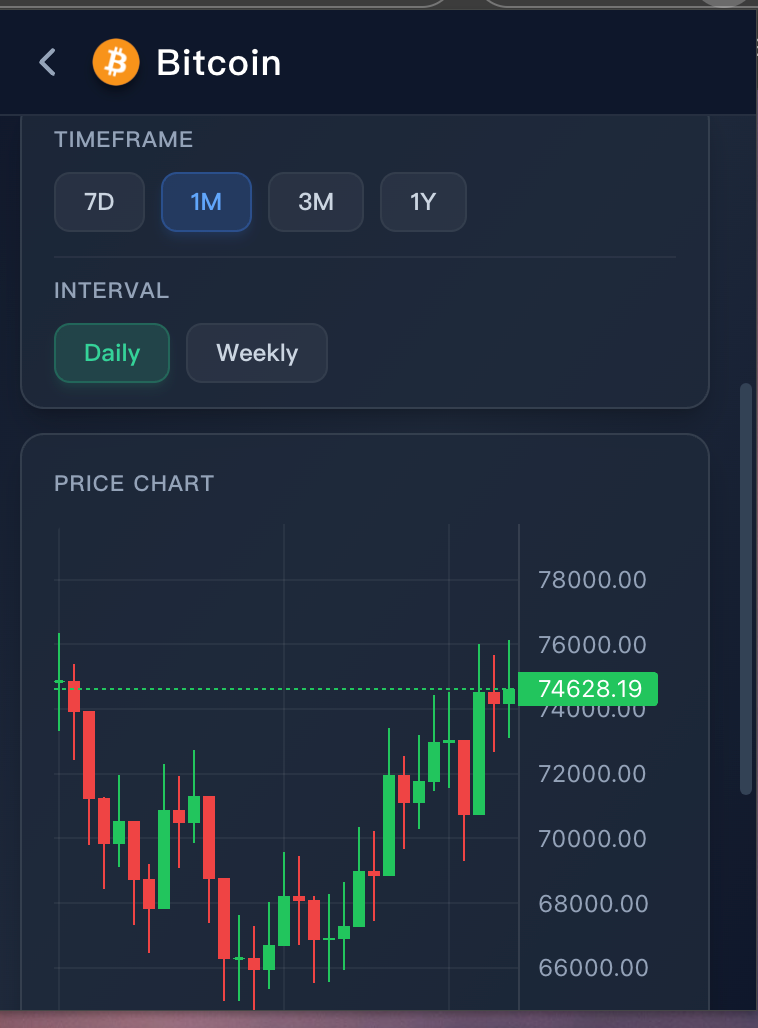
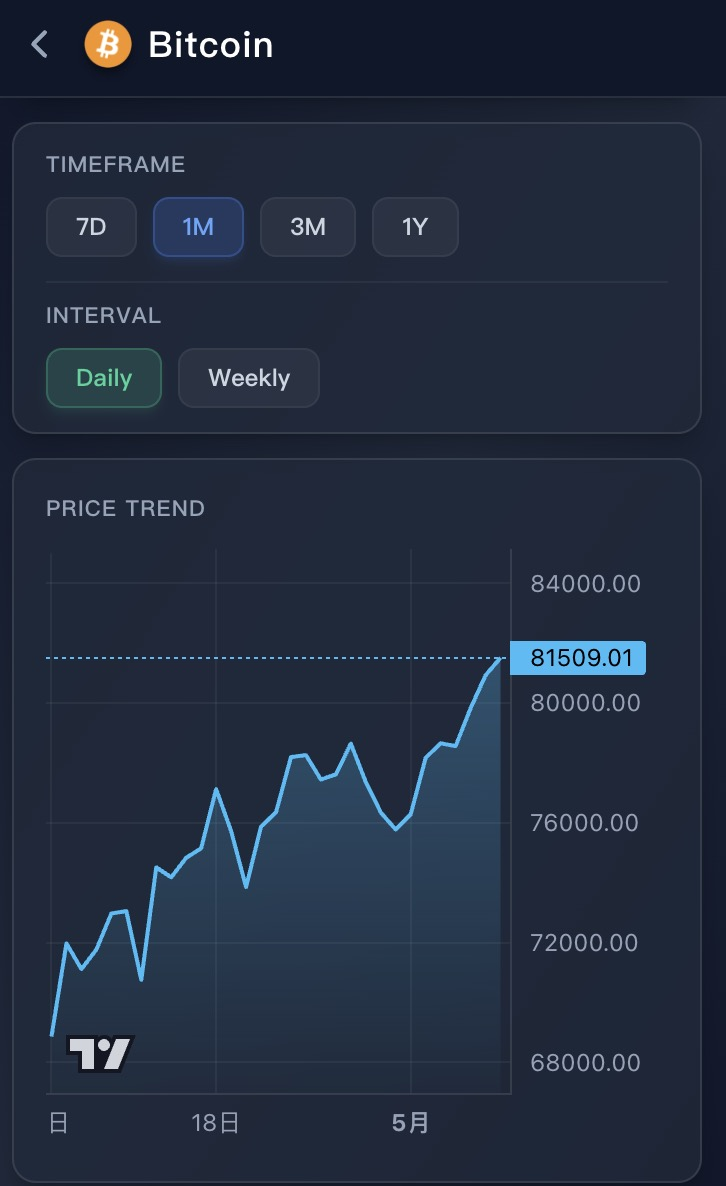
Update README screenshots and feature descriptions

diff --git a/README.md b/README.md
@@ -1,8 +1,8 @@
 # CoinTracker - 加密货币Chrome扩展
 
-一个现代化的加密货币价格追踪Chrome扩展，支持实时价格显示、K线图分析和智能缓存功能。
+一个现代化的加密货币价格追踪 Chrome 扩展，支持实时价格显示、趋势图分析、价格提醒、云同步和智能缓存功能。
 
-## 🖼 UI 预览 (v2.0 极客暗黑屏)
+## 🖼 UI 预览 (v2.1 云同步与多币种)
 
 <table>
   <tr>
@@ -14,12 +14,12 @@
     <td align="center">
       <img src="assets/screenshots/search.png" alt="搜索与添加" width="260"/>
       <br/>
-      <b>高级搜索与添加</b>
+      <b>热门搜索与添加</b>
     </td>
     <td align="center">
-      <img src="assets/screenshots/detail.png" alt="行情折线图" width="260"/>
+      <img src="assets/screenshots/detail.png" alt="价格趋势图" width="260"/>
       <br/>
-      <b>币种趋势详情页</b>
+      <b>价格趋势详情页</b>
     </td>
   </tr>
 </table>
@@ -27,9 +27,11 @@
 ## 🚀 功能特性
 
 - ✅ **实时价格显示** - 支持多种加密货币的实时价格监控
-- ✅ **K线图分析** - 集成lightweight-charts，提供专业的价格走势图
-- ✅ **搜索添加** - 快速搜索并添加关注的币种
-- ✅ **价格提醒** - 设置价格阈值提醒（规划中）
+- ✅ **趋势图分析** - 集成 lightweight-charts，提供真实价格趋势图
+- ✅ **搜索添加** - 支持搜索和热门币种一键关注
+- ✅ **价格提醒** - 支持设置高于/低于阈值提醒
+- ✅ **多法币显示** - 支持 USD、CNY、HKD、EUR 切换和约等于估值
+- ✅ **云同步** - 支持 Supabase 邮箱注册/登录，同步关注、持仓、提醒和加密 Token
 - ✅ **智能缓存** - 多层缓存机制，优化API请求频率
 - ✅ **频率限制保护** - 智能请求队列，防止API限制
 
